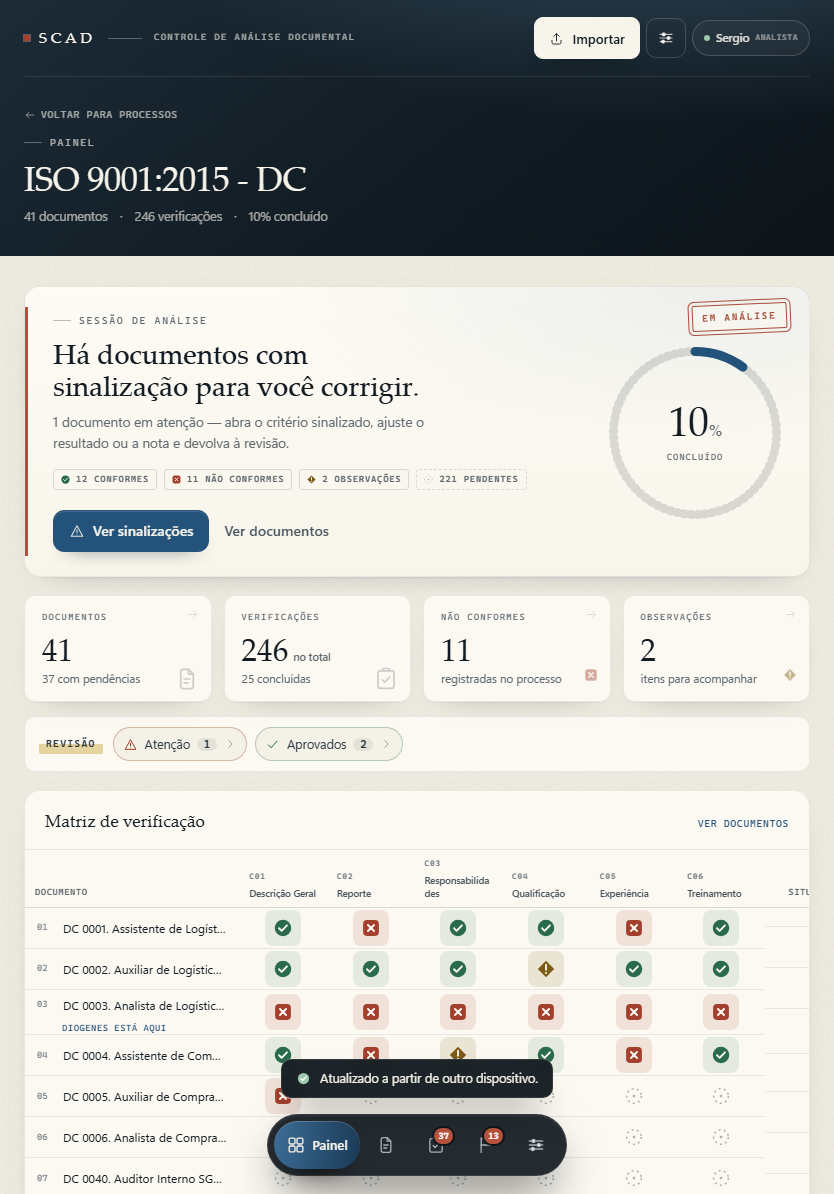
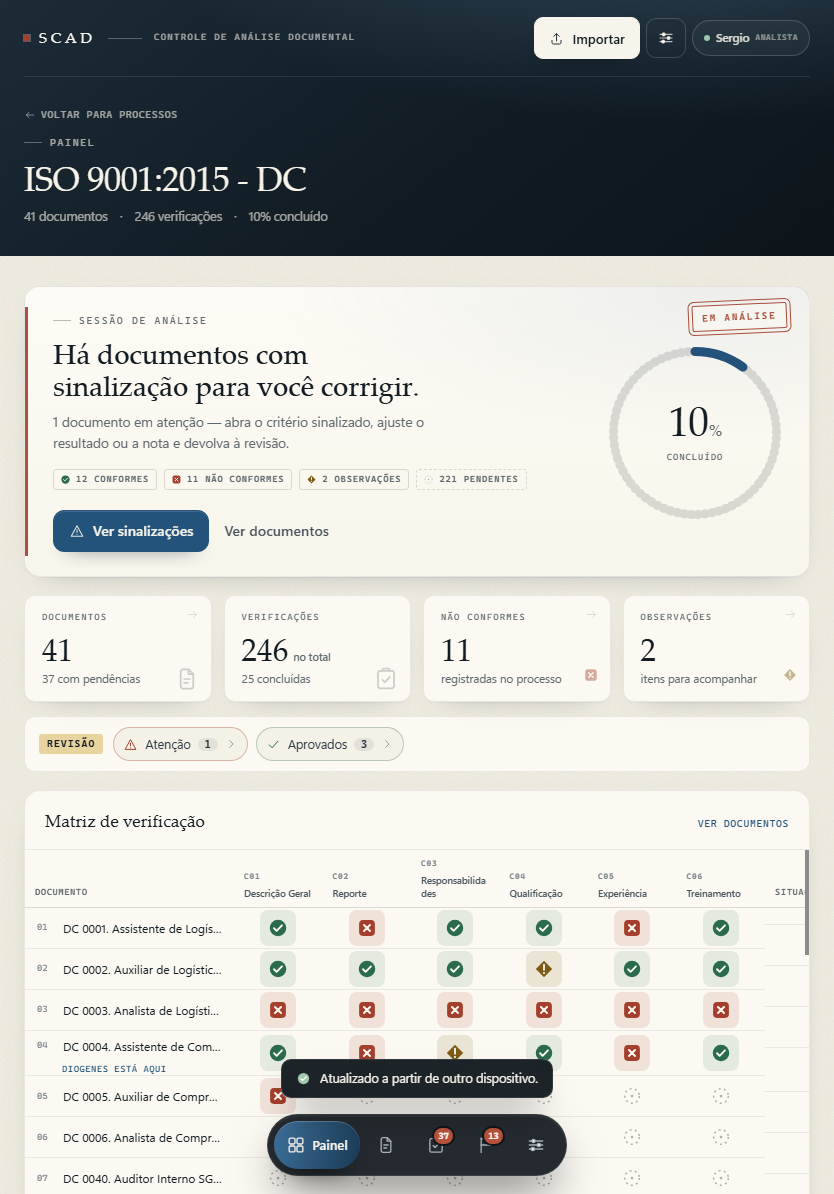
fix v2: grifo de Revisao cobrindo a palavra e coluna Situacao so com icone nos estados de revisao

diff --git a/public/js/views/dashboard.js b/public/js/views/dashboard.js
@@ -43,15 +43,26 @@ function reviewPill({ tone, iconName, label, hint, count, filter }) {
 function reviewMark(review, inactive) {
   if (inactive) return '';
   if (review.status === 'approved') {
-    return `<span class="matrix__smark matrix__smark--ok" title="Aprovado na revisão">${icon('check', 15)}</span>`;
+    return `<span class="matrix__smark matrix__smark--ok" title="Aprovado na revisão">${icon('check', 16)}</span>`;
   }
   if (review.status === 'attention') {
-    return `<span class="matrix__smark matrix__smark--nc" title="Atenção: sinalização para o analista corrigir">${icon('alert', 15)}</span>`;
+    return `<span class="matrix__smark matrix__smark--nc" title="Atenção: sinalização para o analista corrigir">${icon('alert', 16)}</span>`;
   }
   if (review.status === 'awaiting') {
-    return `<span class="matrix__smark matrix__smark--rev" title="Aguardando revisão">${icon('glasses', 15)}</span>`;
+    return `<span class="matrix__smark matrix__smark--rev" title="Aguardando revisão">${icon('glasses', 16)}</span>`;
   }
   return '';
+}
+
+/**
+ * Coluna “Situação”: aprovado, aguardando revisão e atenção mostram **só o
+ * ícone**; nas demais linhas aparece a contagem de verificações (ou “—” se o
+ * documento está inativo).
+ */
+function statusCell(review, inactive, st) {
+  const mark = reviewMark(review, inactive);
+  if (mark) return mark;
+  return `<span class="matrix__status-count">${inactive ? '—' : `${st.done}/${st.total}`}</span>`;
 }
 
 function metric({ label, value, unit = '', sub = '', mark = '', tone = '', href = '', action = '', filter = '' }) {
@@ -287,7 +298,7 @@ export function renderDashboard(state) {
     const cols =
       `<colgroup><col style="width:26%">` +
       crit.map(() => '<col>').join('') +
-      `<col style="width:84px"></colgroup>`;
+      `<col style="width:64px"></colgroup>`;
 
     const rows = docs
       .map((doc, index) => {
@@ -334,15 +345,14 @@ export function renderDashboard(state) {
           `<p class="matrix__presence" data-presence="${doc.id}">${presenceLine(doc.id)}</p></td>` +
           cells +
           `<td class="matrix__status" aria-label="Situação: ${esc(statusLabel)}">` +
-          `<span class="matrix__status-count">${inactive ? '—' : `${st.done}/${st.total}`}</span>` +
-          reviewMark(review, inactive) +
+          statusCell(review, inactive, st) +
           `</td>` +
           `</tr>`
         );
       })
       .join('');
 
-    const minWidth = 230 + crit.length * 86 + 78;
+    const minWidth = 230 + crit.length * 86 + 58;
     matrixBody =
       `<div class="matrix__scroll matrix"><table style="min-width:${minWidth}px">${cols}${head}<tbody>${rows}</tbody></table></div>` +
       `<div class="matrix__legend">` +

diff --git a/public/styles/app.css b/public/styles/app.css
@@ -4419,18 +4419,22 @@ body.nav-hidden .content {
   background: var(--card);
 }
 
-/* “Revisão” grifado, como um marca-texto sobre o rótulo */
+/* “Revisão” grifado: marca-texto cobrindo a palavra inteira (largura e altura) */
 .review-strip__label {
   flex: none;
-  padding: 2px 7px 3px;
+  display: inline-block;
+  padding: 3px 8px;
   font-family: var(--font-mono);
   font-size: 9.5px;
   font-weight: 700;
-  letter-spacing: 0.16em;
+  line-height: 1.5;
+  letter-spacing: 0.14em;
   text-transform: uppercase;
-  color: var(--ink-2);
-  background: linear-gradient(180deg, transparent 46%, rgba(198, 158, 46, 0.42) 46%);
-  border-radius: 2px;
+  color: var(--ink);
+  background: rgba(206, 168, 60, 0.46);
+  border-radius: 3px;
+  box-decoration-break: clone;
+  -webkit-box-decoration-break: clone;
 }
 
 .review-strip__links {
@@ -4534,13 +4538,13 @@ body.nav-hidden .content {
   color: var(--ok);
 }
 
-/* Coluna “Situação”: contagem de verificações + ícone do estado novo */
+/* Coluna “Situação”: só o ícone nos estados de revisão; contagem nas demais */
 .matrix__status {
   white-space: nowrap;
+  text-align: center;
 }
 
 .matrix__status-count {
-  display: block;
   font-family: var(--font-mono);
   font-size: 11px;
   font-variant-numeric: tabular-nums;
@@ -4551,7 +4555,7 @@ body.nav-hidden .content {
   display: inline-flex;
   align-items: center;
   justify-content: center;
-  margin-top: 3px;
+  vertical-align: middle;
 }
 
 .matrix__smark--rev {

diff --git a/PROJECT_MEMORY.md b/PROJECT_MEMORY.md
@@ -91,8 +91,8 @@ Coleção (ISO 9001:2015)
 - **Histórico:** cada check guarda `review.history` (status, autor, mensagem, data, última versão); aparece no CSV/backup.
 - **Concorrência:** sinalização vinculada à versão do check (`updatedAt`); se mudou, o servidor recusa com 409 e pede para recarregar.
 - **UX implementada:** sem nova aba. Selos `Aguardando revisão`, `Atenção` e `Aprovado` no documento, na matriz e na lista; na bancada o revisor tem **Aprovar documento** (diálogo com mensagem opcional) e **Sinalizar critério** em cada verificação avaliada (mensagem obrigatória). O analista vê a mensagem no próprio critério e a devolução para revisão acontece ao editar. Painel do revisor com faixa de revisão e fila “Revisão”; lista de documentos com filtros “Revisão” e “Aprovados”.
-- **Faixa de revisão por papel:** o rótulo “Revisão” é grifado; cada contador é um botão com ícone, número e seta. Revisor vê 👓 **Aguardando revisão**; analista vê ⚠ **Atenção** (corrigir); ambos veem ✓ **Aprovados** (filtra só aprovados). Os atalhos abrem a lista já filtrada, com aviso “Mostrando: …” e “ver todos”.
-- **Coluna “Situação” da matriz:** mantém `verificadas/total` visível e usa **ícones** para os estados novos (👓 aguardando revisão, ⚠ atenção, ✓ aprovado) em vez de texto — evita quebra de linha e mantém a coluna estreita. Legenda separada só com os estados de situação.
+- **Faixa de revisão por papel:** “Revisão” é grifado com marca-texto de cor sólida cobrindo a palavra inteira (largura e altura); cada contador é um botão com ícone, número e seta. Revisor vê 👓 **Aguardando revisão**; analista vê ⚠ **Atenção** (corrigir); ambos veem ✓ **Aprovados** (filtra só aprovados). Os atalhos abrem a lista já filtrada, com aviso “Mostrando: …” e “ver todos”.
+- **Coluna “Situação” da matriz:** **só o ícone** quando o documento está aprovado (✓), aguardando revisão (👓) ou em atenção (⚠). Nas demais linhas aparece a contagem `verificadas/total` (ou “—” para inativo), que continua servindo para saber se tudo foi preenchido. Legenda separada só com os estados de situação.
 - **Presença:** mostrada apenas no **painel, na matriz de verificação**, abaixo do nome do documento (linha que cresce ~5 px e volta ao normal quando a pessoa sai). Fora da aba “Analisar”. Batimento de 12 s, validade de 45 s, sem gravar no banco; serve para evitar edição simultânea no mesmo documento.
 
 ### 4.4 Atividade
@@ -279,6 +279,7 @@ Implementado no worktree `scad-v2` (branch `fase-a`), sem tocar a produção:
 | 2026-11-10 | Correções do uso no iPad: navegação interna por `pushState` (sem recarga), sessão persistida (tela/filtros/fila/rolagem), tela de carregamento só após 220 ms com cache espelhado em `localStorage`, barra expandindo em 0,7 s e cabeçalho sem nome repetido. Validado no Edge headless em viewport de iPad (41 documentos, 240 verificações). |
 | 2026-11-10 | Fase B no `fase-a` (v2.0-rc3): revisão por documento com aprovação em bloco e sinalização por critério (mensagem obrigatória), autoaprovação do revisor, devolução automática do check alterado pelo analista, bloqueio de aprovação com sinalização aberta, histórico da revisão, filtros “Revisão”/“Aguardando”/“Atenção”, faixa de revisão no painel, títulos `${coleção} - ${processo}`, cascata do painel e presença “Fulano está aqui”. 24 testes de API e 19 de interface passando. |
 | 2026-11-10 | Ajustes de leitura (v2.0-rc4): faixa “Revisão” grifada com atalhos clicáveis (ícone + contador + seta), separação por papel (revisor = Aguardando revisão; analista = Atenção) e “Aprovados” clicável com filtro próprio; coluna “Situação” da matriz com ícones (👓 ⚠ ✓) mantendo `verificadas/total`; presença movida para a matriz do painel, abaixo do nome do documento, com a linha voltando ao tamanho normal ao sair. 34 verificações de interface e 13 de layout/presença passando. |
+| 2026-11-10 | Refino (v2.0-rc5): marca-texto de “Revisão” passou a cobrir a palavra inteira (cor sólida, largura e altura); na coluna “Situação” os estados aprovado/aguardando revisão/atenção mostram **apenas o ícone**, e a contagem `verificadas/total` fica só nas linhas em análise (ou “—” para inativo). Coluna reduzida para 64 px. Testes rodados em instância isolada (4192) para não mexer na prévia em uso. |
 
 ---
 

diff --git a/README.md b/README.md
@@ -38,8 +38,8 @@ Um caderno de trabalho local para **organizar coleções e processos, importar d
 - Documento com sinalização aberta **não pode ser aprovado**; o Sergio corrige o resultado ou a nota e o critério volta para **Aguardando revisão**.
 - Verificação feita pelo próprio revisor já nasce **aprovada**. Documentos concluídos antes da revisão entram como “Aguardando revisão” na migração.
 - O revisor tem **fila “Revisão”** na bancada, a **faixa de revisão** no painel e filtros na lista de documentos; cada critério mostra `aprovada`, `sinalizada` e a mensagem de quem sinalizou.
-- **Faixa de revisão com papel definido**: “Revisão” aparece grifado e cada contador é um atalho clicável com ícone, número e seta — 👓 **Aguardando revisão** (só o revisor vê), ⚠ **Atenção** (só o analista vê, para corrigir) e ✓ **Aprovados** (abre a lista só com os aprovados).
-- **Coluna “Situação” da matriz**: continua mostrando `verificadas/total` e os novos estados aparecem como ícone — 👓 aguardando revisão, ⚠ atenção, ✓ aprovado — com legenda própria. Nada de texto longo quebrando a linha.
+- **Faixa de revisão com papel definido**: “Revisão” aparece com marca-texto cobrindo a palavra inteira e cada contador é um atalho clicável com ícone, número e seta — 👓 **Aguardando revisão** (só o revisor vê), ⚠ **Atenção** (só o analista vê, para corrigir) e ✓ **Aprovados** (abre a lista só com os aprovados).
+- **Coluna “Situação” da matriz**: quando o documento está **aprovado, aguardando revisão ou em atenção**, aparece **apenas o ícone** (👓 ⚠ ✓). Nas demais linhas fica a contagem `verificadas/total` (ou “—” para inativo), para saber se tudo foi preenchido. Legenda própria abaixo da matriz.
 - Tudo fica no histórico por verificação (autor, mensagem, data) e sai no CSV com as colunas de revisão.
 
 ### Presença
